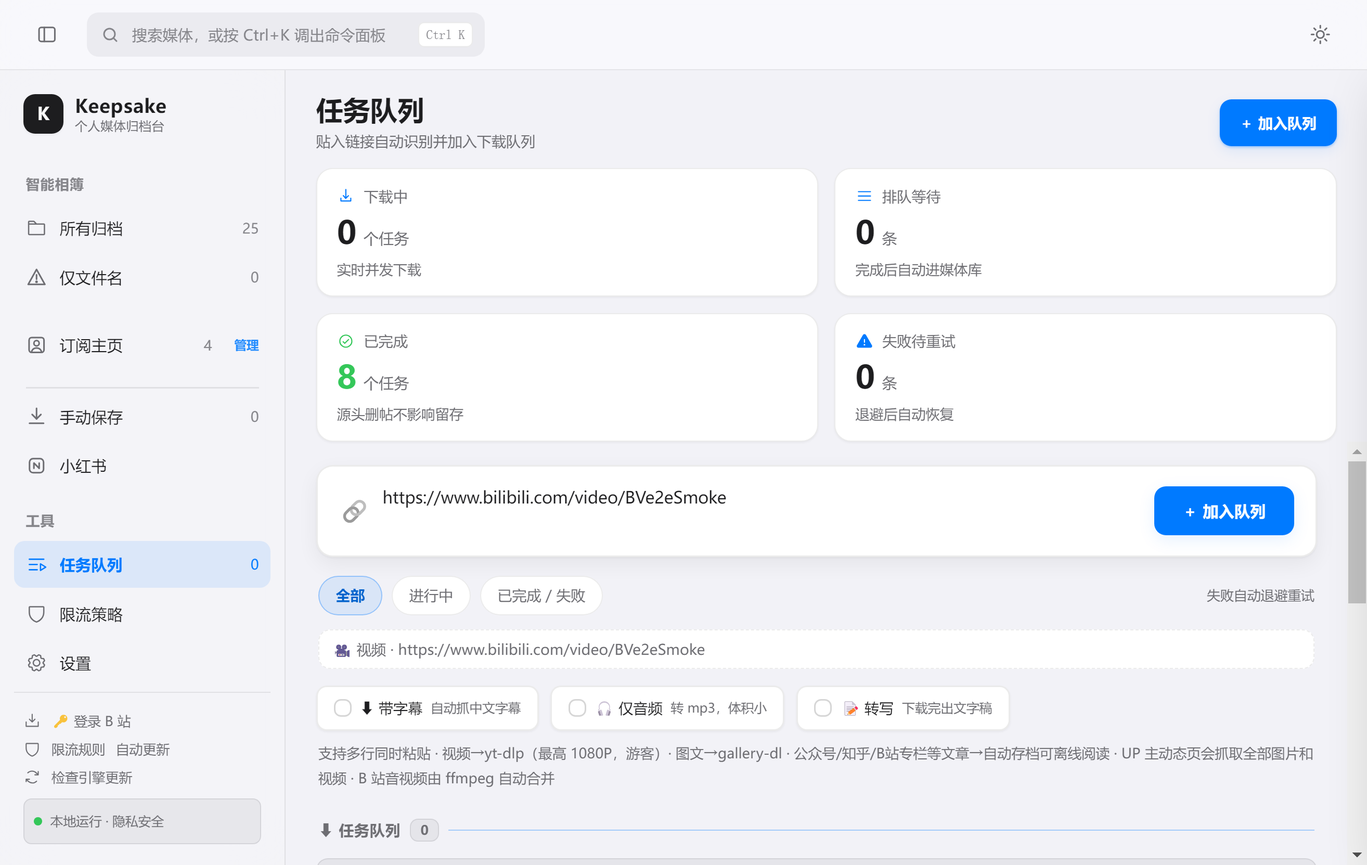
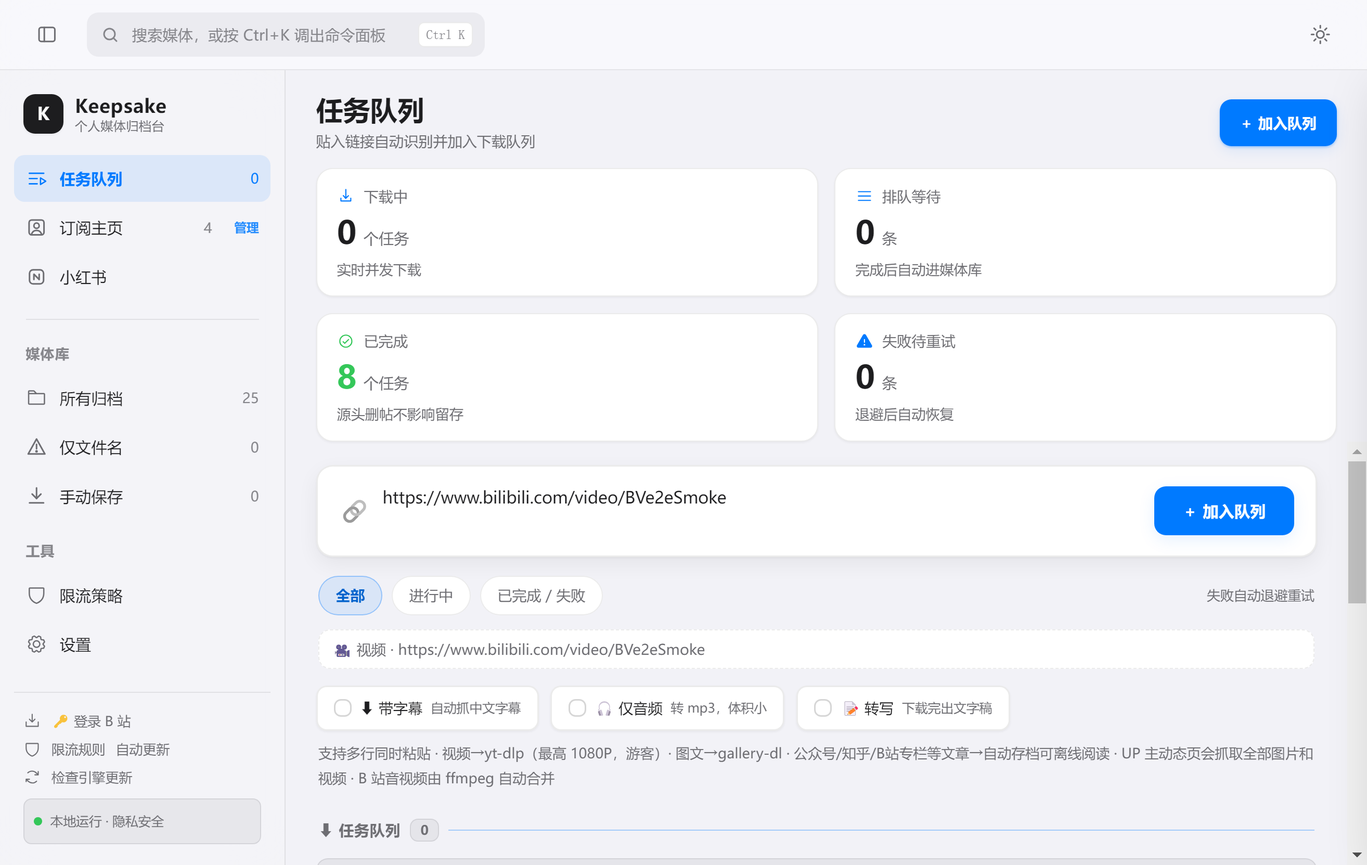
侧栏按原型重排：任务队列→订阅主页→小红书→媒体库→工具；订阅主页自带粘贴订阅框
- 侧栏顺序（2026-11-23 拍板原型）：任务队列(1)→订阅主页(2)→小红书(3)→分隔线+媒体库组(所有归档/仅文件名/手动保存)→工具组(限流策略/设置)；组标签「智能相簿」改名「媒体库」
- 订阅主页视图顶部新增粘贴订阅框（subUrlBox）：回车/按钮提交走完整 addSub 链路（subsAdd 预检/登录态提醒/首轮检查/回溯询问），不用绕订阅管理页；空态/无匹配态同样带框
- paste-box 支持单行 input 样式；verify_fused 62/62（新增排序断言+粘贴框链路 2 项），真机 11/11

diff --git a/评审材料/proto-sidebar-order.html b/评审材料/proto-sidebar-order.html
@@ -1,0 +1,240 @@
+<!DOCTYPE html>
+<html lang="zh-CN">
+<head>
+<meta charset="UTF-8">
+<meta name="viewport" content="width=device-width, initial-scale=1.0">
+<title>Keepsake 侧栏排序原型 · 任务队列优先</title>
+<style>
+  :root {
+    --acc: #3b82f6; --accbg: rgba(59,130,246,.12);
+    --bg: #f4f5f7; --panel: #ffffff; --panel2: #f0f1f4;
+    --txt: #1a1d23; --txt2: #5b6472; --txt3: #9aa3b0;
+    --line: #e5e8ee; --red: #ef4444;
+    --r-md: 12px; --shadow-sm: 0 1px 2px rgba(0,0,0,.05), 0 2px 8px rgba(0,0,0,.04);
+    --ease-out: cubic-bezier(.22,1,.36,1);
+  }
+  .dark {
+    --acc: #60a5fa; --accbg: rgba(96,165,250,.14);
+    --bg: #14161a; --panel: #1d2026; --panel2: #262a32;
+    --txt: #e8eaf0; --txt2: #a3abba; --txt3: #6b7382;
+    --line: #2c313a; --shadow-sm: 0 1px 2px rgba(0,0,0,.3), 0 2px 8px rgba(0,0,0,.2);
+  }
+  * { margin:0; padding:0; box-sizing:border-box; }
+  body { font-family:-apple-system,'Segoe UI','Microsoft YaHei',sans-serif; background:var(--bg); color:var(--txt); font-size:14px; height:100vh; overflow:hidden; transition:background .3s; }
+
+  /* ===== 工具栏 ===== */
+  .toolbar { height:56px; display:flex; align-items:center; gap:10px; padding:0 16px; background:var(--panel); border-bottom:1px solid var(--line); }
+  .search { flex:0 0 420px; display:flex; align-items:center; gap:8px; height:36px; padding:0 10px; border-radius:10px; background:var(--panel2); border:1px solid var(--line); color:var(--txt3); }
+  .search input { flex:1; border:0; background:none; outline:none; font-size:13px; color:var(--txt); }
+  .kbd { font-size:11px; padding:2px 7px; border-radius:6px; border:1px solid var(--line); background:var(--panel); color:var(--txt3); font-variant-numeric:tabular-nums; }
+  .tb-spacer { flex:1; }
+  .tb-btn { width:36px; height:36px; border-radius:10px; border:0; background:var(--panel2); color:var(--txt2); cursor:pointer; display:grid; place-items:center; font-size:16px; transition:transform .14s var(--ease-out), background .18s; }
+  .tb-btn:hover { background:var(--line); } .tb-btn:active { transform:scale(.94); }
+
+  /* ===== 布局 ===== */
+  .workspace { display:flex; height:calc(100vh - 56px); }
+  .sidebar { width:232px; flex:none; background:var(--panel); border-right:1px solid var(--line); padding:14px 12px 12px; display:flex; flex-direction:column; overflow-y:auto; }
+  .main { flex:1; min-width:0; padding:26px 30px; overflow-y:auto; }
+  .logo { display:flex; align-items:center; gap:10px; padding:2px 10px 16px; }
+  .gem { width:34px; height:34px; border-radius:10px; background:var(--acc); color:#fff; display:grid; place-items:center; font-weight:800; font-size:17px; }
+  .logo-name { font-weight:750; font-size:15px; letter-spacing:-.01em; }
+  .logo-sub { font-size:10.5px; color:var(--txt3); }
+
+  /* ===== 侧栏导航（★ 本次原型核心：排序） ===== */
+  .nav-grp { font-size:11.5px; font-weight:600; letter-spacing:.05em; color:var(--txt3); padding:16px 10px 7px; }
+  .nav { display:flex; align-items:center; gap:10px; height:38px; padding:0 10px; border-radius:10px; cursor:pointer; color:var(--txt2); user-select:none; font-size:13.5px; transition:background .16s, color .16s, transform .12s var(--ease-out); }
+  .nav:hover { background:var(--panel2); color:var(--txt); }
+  .nav:active { transform:scale(.985); }
+  .nav.on { background:var(--accbg); color:var(--acc); font-weight:600; }
+  .nav svg { width:17px; height:17px; flex:none; }
+  .nav .cnt { margin-left:auto; font-size:10.5px; font-weight:650; color:var(--txt3); background:var(--panel2); border-radius:8px; padding:1px 7px; font-variant-numeric:tabular-nums; }
+  .nav.on .cnt { background:rgba(59,130,246,.18); color:var(--acc); }
+  .nav .cnt.hot { background:var(--red); color:#fff; }
+  .nav.action svg { color:var(--acc); }
+  .side-sep { height:1px; background:var(--line); margin:14px 10px 0; }
+  .side-foot { margin-top:auto; padding-top:14px; font-size:11.5px; color:var(--txt3); }
+  .frow { display:flex; align-items:center; gap:7px; padding:5px 10px; }
+  .frow .act { color:var(--acc); cursor:pointer; }
+
+  /* ===== 主内容 mock ===== */
+  .page { display:none; }
+  .page.on { display:block; animation:fadeUp .34s var(--ease-out) both; }
+  @keyframes fadeUp { from { opacity:0; transform:translateY(8px); } to { opacity:1; transform:none; } }
+  .page-title { font-size:24px; font-weight:750; letter-spacing:-.02em; }
+  .page-sub { font-size:12.5px; color:var(--txt2); margin:5px 0 22px; }
+  .stats { display:grid; grid-template-columns:repeat(3, 200px); gap:14px; margin-bottom:22px; }
+  .stat { background:var(--panel); border:1px solid var(--line); border-radius:var(--r-md); padding:14px 18px; box-shadow:var(--shadow-sm); }
+  .stat b { font-size:22px; font-variant-numeric:tabular-nums; }
+  .stat span { display:block; font-size:11.5px; color:var(--txt3); margin-top:2px; }
+  .paste { background:var(--panel); border:1px solid var(--line); border-radius:var(--r-md); padding:14px; display:flex; gap:10px; box-shadow:var(--shadow-sm); margin-bottom:22px; }
+  .paste textarea { flex:1; height:56px; border:1px solid var(--line); border-radius:10px; background:var(--panel2); resize:none; padding:10px 12px; font-size:13px; color:var(--txt); font-family:inherit; outline:none; }
+  .paste textarea:focus { border-color:var(--acc); box-shadow:0 0 0 3px var(--accbg); }
+  .btn-acc { align-self:flex-end; height:36px; padding:0 16px; border-radius:9px; border:0; background:var(--acc); color:#fff; font-size:13px; font-weight:600; cursor:pointer; }
+  .grid { display:grid; grid-template-columns:repeat(auto-fill, minmax(220px,1fr)); gap:14px; }
+  .card { background:var(--panel); border:1px solid var(--line); border-radius:14px; overflow:hidden; box-shadow:var(--shadow-sm); cursor:pointer; transition:transform .14s var(--ease-out), border-color .18s; }
+  .card:hover { transform:translateY(-2px); border-color:var(--acc); }
+  .thumb { height:110px; display:grid; place-items:center; font-size:30px; color:#fff; }
+  .cbody { padding:11px 13px; }
+  .cname { font-size:13.5px; font-weight:650; }
+  .cmeta { font-size:11.5px; color:var(--txt3); margin-top:3px; }
+  .badge { display:inline-block; font-size:10px; font-weight:650; padding:2px 7px; border-radius:6px; background:var(--accbg); color:var(--acc); margin-top:7px; }
+  .rows { display:flex; flex-direction:column; gap:10px; }
+  .rowcard { display:flex; align-items:center; gap:12px; background:var(--panel); border:1px solid var(--line); border-radius:12px; padding:13px 16px; box-shadow:var(--shadow-sm); }
+  .avatar { width:38px; height:38px; border-radius:50%; display:grid; place-items:center; color:#fff; font-weight:700; font-size:15px; flex:none; }
+  .go { margin-left:auto; color:var(--txt3); font-size:18px; }
+  .note { margin-top:26px; font-size:12px; color:var(--txt3); background:var(--panel); border:1px dashed var(--line); border-radius:10px; padding:12px 16px; line-height:1.8; }
+</style>
+</head>
+<body>
+
+<header class="toolbar">
+  <div class="search">🔍<input placeholder="搜索媒体，或按 Ctrl K 调出命令面板"><span class="kbd">Ctrl K</span></div>
+  <div class="tb-spacer"></div>
+  <button class="tb-btn" id="themeBtn" title="切换主题">🌙</button>
+</header>
+
+<div class="workspace">
+  <!-- ★ 侧栏新排序：任务队列 → 订阅主页 → 小红书 → 媒体库 → 工具 -->
+  <aside class="sidebar">
+    <div class="logo"><span class="gem">K</span><span><div class="logo-name">Keepsake</div><div class="logo-sub">个人媒体归档台</div></span></div>
+
+    <div class="nav on" data-page="tasks">
+      <svg viewBox="0 0 256 256" fill="currentColor"><path d="M32,64a8,8,0,0,1,8-8H216a8,8,0,0,1,0,16H40A8,8,0,0,1,32,64Zm104,56H40a8,8,0,0,0,0,16h96a8,8,0,0,0,0-16Zm0,64H40a8,8,0,0,0,0,16h96a8,8,0,0,0,0-16Zm112-24a8,8,0,0,1-3.76,6.78l-64,40A8,8,0,0,1,168,200V120a8,8,0,0,1,12.24-6.78l64,40A8,8,0,0,1,248,160Z"/></svg>
+      任务队列 <span class="cnt hot" id="c-tasks">2</span>
+    </div>
+    <div class="nav" data-page="subs">
+      <svg viewBox="0 0 24 24" fill="none" stroke="currentColor" stroke-width="1.8" stroke-linecap="round" stroke-linejoin="round" style="fill:none"><rect x="3.5" y="3.5" width="17" height="17" rx="3"/><circle cx="12" cy="10" r="3"/><path d="M6.5 19a6 6 0 0 1 11 0"/></svg>
+      订阅主页 <span class="cnt">5</span>
+    </div>
+    <div class="nav action" data-page="xhs">
+      <svg viewBox="0 0 24 24" fill="none" stroke="currentColor" stroke-width="1.8" stroke-linecap="round" stroke-linejoin="round" style="fill:none"><rect x="4" y="4" width="16" height="16" rx="4"/><path d="M9 15V9l6 6V9"/></svg>
+      小红书
+    </div>
+
+    <div class="side-sep"></div>
+    <div class="nav-grp">媒体库</div>
+    <div class="nav" data-page="lib">
+      <svg viewBox="0 0 256 256" fill="currentColor"><path d="M216,72H131.31L104,44.69A15.86,15.86,0,0,0,92.69,40H40A16,16,0,0,0,24,56V200.62A15.4,15.4,0,0,0,39.38,216H216.89A15.13,15.13,0,0,0,232,200.89V88A16,16,0,0,0,216,72ZM40,56H92.69l16,16H40ZM216,200H40V88H216Z"/></svg>
+      所有归档 <span class="cnt">4</span>
+    </div>
+    <div class="nav" data-page="lib">
+      <svg viewBox="0 0 24 24" fill="none" stroke="currentColor" stroke-width="1.8" stroke-linecap="round" stroke-linejoin="round" style="fill:none"><path d="M12 3 2.5 20h19L12 3Z"/><line x1="12" y1="9" x2="12" y2="14"/><circle cx="12" cy="17" r=".6" fill="currentColor"/></svg>
+      仅文件名 <span class="cnt">1</span>
+    </div>
+    <div class="nav" data-page="lib">
+      <svg viewBox="0 0 24 24" fill="none" stroke="currentColor" stroke-width="1.8" stroke-linecap="round" stroke-linejoin="round" style="fill:none"><path d="M12 3v12"/><path d="m7 10 5 5 5-5"/><path d="M4 20h16"/></svg>
+      手动保存 <span class="cnt">1</span>
+    </div>
+
+    <div class="nav-grp">工具</div>
+    <div class="nav" data-page="strategy">
+      <svg viewBox="0 0 256 256" fill="currentColor"><path d="M208,40H48A16,16,0,0,0,32,56v56c0,52.72,25.52,84.67,46.93,102.19,23.06,18.86,46,25.27,47,25.53a8,8,0,0,0,4.2,0c1-.26,23.91-6.67,47-25.53C198.48,196.67,224,164.72,224,112V56A16,16,0,0,0,208,40Zm0,72c0,37.07-13.66,67.16-40.6,89.42A129.3,129.3,0,0,1,128,223.62a128.25,128.25,0,0,1-38.92-21.81C61.82,179.51,48,149.3,48,112l0-56,160,0Z"/></svg>
+      限流策略
+    </div>
+    <div class="nav" data-page="settings">
+      <svg viewBox="0 0 256 256" fill="currentColor"><path d="M128,80a48,48,0,1,0,48,48A48.05,48.05,0,0,0,128,80Zm0,80a32,32,0,1,1,32-32A32,32,0,0,1,128,160Z"/></svg>
+      设置
+    </div>
+
+    <div class="side-foot">
+      <div class="frow">🔑 <span class="act">登录 B 站</span></div>
+      <div class="frow">🛡 限流规则 <span class="act">自动更新</span></div>
+      <div class="frow">⟳ <span class="act">检查引擎更新</span></div>
+    </div>
+  </aside>
+
+  <!-- 主内容（mock） -->
+  <main class="main">
+    <section class="page on" id="pg-tasks">
+      <div class="page-title">任务队列</div>
+      <div class="page-sub">粘贴链接下载 — 首页即达，下载中 2 条</div>
+      <div class="stats">
+        <div class="stat"><b>2</b><span>下载中</span></div>
+        <div class="stat"><b>1</b><span>已完成</span></div>
+        <div class="stat"><b>0</b><span>失败</span></div>
+      </div>
+      <div class="paste">
+        <textarea placeholder="粘贴视频 / 图片 / 文章链接（B站、YouTube、小红书…每行一个），自动识别并加入下载队列"></textarea>
+        <button class="btn-acc">＋ 加入队列</button>
+      </div>
+      <div class="rows">
+        <div class="rowcard"><div class="avatar" style="background:#fb7299">B</div><div><div class="cname">【4K】城市夜景延时摄影.mp4</div><div class="cmeta">bilibili · 2160P · 已下载 62%</div></div><span class="go">›</span></div>
+        <div class="rowcard"><div class="avatar" style="background:#ff2442">红</div><div><div class="cname">秋日穿搭合集（图文）</div><div class="cmeta">小红书 · 9 图 · 排队中</div></div><span class="go">›</span></div>
+      </div>
+    </section>
+
+    <section class="page" id="pg-subs">
+      <div class="page-title">订阅主页</div>
+      <div class="page-sub">5 个订阅主页 · 点击卡片查看 TA 的归档</div>
+      <div class="rows">
+        <div class="rowcard"><div class="avatar" style="background:#6c5ce7">影</div><div><div class="cname">影视飓风</div><div class="cmeta">B站 · 已跟踪 128 条</div></div><span class="go">›</span></div>
+        <div class="rowcard"><div class="avatar" style="background:#00b894">何</div><div><div class="cname">何同学</div><div class="cmeta">B站 · 已跟踪 42 条</div></div><span class="go">›</span></div>
+        <div class="rowcard"><div class="avatar" style="background:#e17055">设</div><div><div class="cname">设计师日常</div><div class="cmeta">小红书 · 已跟踪 96 条</div></div><span class="go">›</span></div>
+        <div class="rowcard"><div class="avatar" style="background:#0984e3">少</div><div><div class="cname">少数派</div><div class="cmeta">公众号 · 已跟踪 210 条</div></div><span class="go">›</span></div>
+        <div class="rowcard" style="opacity:.6"><div class="avatar" style="background:#636e72">一</div><div><div class="cname">一人公司 <span class="badge">⏸ 已暂停</span></div><div class="cmeta">RSS · 已跟踪 15 条</div></div><span class="go">›</span></div>
+      </div>
+    </section>
+
+    <section class="page" id="pg-xhs">
+      <div class="page-title">小红书</div>
+      <div class="page-sub">打开受控浏览器 — 浏览笔记页后点窗口内【📥 归档】一键保存图文/视频</div>
+      <div class="note">点击侧栏「小红书」会拉起独立受控窗口。此处示意入口位置（第三位）：紧跟订阅主页之后、媒体库之前，收集动作聚在一起。</div>
+    </section>
+
+    <section class="page" id="pg-lib">
+      <div class="page-title">所有归档</div>
+      <div class="page-sub">订阅追更与手动添加，收在一处</div>
+      <div class="grid">
+        <div class="card"><div class="thumb" style="background:linear-gradient(135deg,#1a1a2e,#16213e)">▶</div><div class="cbody"><div class="cname">a</div><div class="cmeta">何同学 · 2026-11-22</div><span class="badge">▶ 视频 · B站</span></div></div>
+        <div class="card"><div class="thumb" style="background:linear-gradient(135deg,#a29bfe,#6c5ce7)">🖼</div><div class="cbody"><div class="cname">c</div><div class="cmeta">何同学 · 2026-11-22</div><span class="badge">📄 文件名 · B站</span></div></div>
+        <div class="card"><div class="thumb" style="background:linear-gradient(135deg,#fd79a8,#e84393)">📝</div><div class="cbody"><div class="cname">b</div><div class="cmeta">何同学 · 2026-11-22</div><span class="badge">＋ 手动添加 · B站</span></div></div>
+        <div class="card"><div class="thumb" style="background:linear-gradient(135deg,#2d3436,#636e72)">▶</div><div class="cbody"><div class="cname">d</div><div class="cmeta">影视飓风 · 2026-11-22</div><span class="badge">▶ 视频 · YouTube</span></div></div>
+      </div>
+    </section>
+
+    <section class="page" id="pg-strategy">
+      <div class="page-title">限流策略</div>
+      <div class="page-sub">各站点请求间隔与并发上限（mock）</div>
+      <div class="rows">
+        <div class="rowcard"><div class="avatar" style="background:#fb7299">B</div><div><div class="cname">bilibili</div><div class="cmeta">间隔 3.0s · 并发 2</div></div><span class="go">›</span></div>
+        <div class="rowcard"><div class="avatar" style="background:#ff2442">红</div><div><div class="cname">小红书</div><div class="cmeta">间隔 5.0s · 并发 1</div></div><span class="go">›</span></div>
+      </div>
+    </section>
+
+    <section class="page" id="pg-settings">
+      <div class="page-title">设置</div>
+      <div class="page-sub">主题 / 强调色 / 外观（mock）</div>
+      <div class="note">深浅主题已在本原型内联动：右上角 🌙 可切换，侧栏与内容区同步变色。</div>
+    </section>
+
+    <div class="note" style="margin-top:8px">
+      <b>★ 原型要点</b>：侧栏排序改为「任务队列 → 订阅主页 → 小红书 →（分隔线）媒体库组：所有归档/仅文件名/手动保存 →（组标签）工具：限流策略/设置」。三个高频收集入口置顶，媒体库后退为第二簇，纯工具类垫底。此文件为纯静态 mock，未动 Keepsake 源码；拍板后再移植。
+    </div>
+  </main>
+</div>
+
+<script>
+  // 侧栏切换：点击高亮 + 页面切换
+  document.querySelectorAll('.nav[data-page]').forEach(n => {
+    n.addEventListener('click', () => {
+      document.querySelectorAll('.sidebar .nav').forEach(x => x.classList.remove('on'));
+      n.classList.add('on');
+      document.querySelectorAll('.page').forEach(p => p.classList.remove('on'));
+      const pg = document.getElementById('pg-' + n.dataset.page);
+      if (pg) pg.classList.add('on');
+    });
+  });
+  // 主题切换
+  let dark = false;
+  document.getElementById('themeBtn').addEventListener('click', function () {
+    dark = !dark;
+    document.body.classList.toggle('dark', dark);
+    this.textContent = dark ? '☀' : '🌙';
+  });
+  // Ctrl+K 聚焦搜索
+  document.addEventListener('keydown', e => {
+    if ((e.ctrlKey || e.metaKey) && e.key.toLowerCase() === 'k') { e.preventDefault(); document.querySelector('.search input').focus(); }
+  });
+</script>
+</body>
+</html>

diff --git a/app/index.html b/app/index.html
@@ -196,6 +196,7 @@
   .paste-box span { font-size:20px; }
   textarea { border:none; outline:none; resize:none; font:inherit; color:var(--txt); background:transparent; }
   .paste-box textarea { flex:1; font-size:14px; min-height:44px; }
+  .paste-box input[type="text"] { flex:1; min-width:0; border:none; outline:none; font:inherit; font-size:14px; color:var(--txt); background:transparent; }
   .btn-dl { background:var(--acc); border:none; color:#fff; font-weight:700; font-size:13.5px; padding:12px 24px; border-radius:10px; cursor:pointer; white-space:nowrap; box-shadow:0 4px 14px var(--accbg); }
   .btn-dl:hover { filter:brightness(1.06); }
   .btn-dl:disabled { opacity:.55; cursor:not-allowed; filter:none; }
@@ -605,15 +606,16 @@
   <div class="workspace">
 <aside class="sidebar">
   <div class="logo"><span class="gem">K</span><span class="logo-txt"><span class="logo-name">Keepsake</span><span class="logo-sub">个人媒体归档台</span></span></div>
-  <div class="nav-grp">智能相簿</div>
+  <!-- ★ 侧栏排序（2026-11-23 拍板）：任务队列 → 订阅主页 → 小红书 →（分隔线）媒体库 →（组标签）工具 -->
+  <div class="nav" data-page="tasks" onclick="switchPage('tasks')"><svg viewBox="0 0 256 256" fill="currentColor"><path d="M32,64a8,8,0,0,1,8-8H216a8,8,0,0,1,0,16H40A8,8,0,0,1,32,64Zm104,56H40a8,8,0,0,0,0,16h96a8,8,0,0,0,0-16Zm0,64H40a8,8,0,0,0,0,16h96a8,8,0,0,0,0-16Zm112-24a8,8,0,0,1-3.76,6.78l-64,40A8,8,0,0,1,168,200V120a8,8,0,0,1,12.24-6.78l64,40A8,8,0,0,1,248,160Zm-23.09,0L184,134.43v51.14Z"/></svg>任务队列 <span class="cnt" id="q-cnt">0</span></div>
+  <div class="nav" data-nav="subs" onclick="libViewGo('subs')" title="所有订阅主页收在这里，点击在右侧查看详细名称并可直接粘贴添加"><svg viewBox="0 0 24 24" fill="none" stroke="currentColor" stroke-width="1.8" stroke-linecap="round" stroke-linejoin="round" style="fill:none"><rect x="3.5" y="3.5" width="17" height="17" rx="3"/><circle cx="12" cy="10" r="3"/><path d="M6.5 19a6 6 0 0 1 11 0"/></svg>订阅主页 <span class="cnt" id="sideSubCnt">0</span><span class="side-manage" style="margin-left:8px" onclick="event.stopPropagation();switchPage('rss')" title="订阅管理：检查频率/回溯/分组/批量操作">管理</span></div>
+  <div class="nav" id="xhsWinBtn" onclick="openXhsWin()" title="打开小红书受控浏览器：浏览笔记页后点窗口内【📥 归档】一键保存图文/视频"><svg viewBox="0 0 24 24" fill="none" stroke="currentColor" stroke-width="1.8" stroke-linecap="round" stroke-linejoin="round" style="fill:none"><rect x="4" y="4" width="16" height="16" rx="4"/><path d="M9 15V9l6 6V9"/></svg>小红书</div>
+  <div class="side-sep"></div>
+  <div class="nav-grp">媒体库</div>
   <div class="nav on" data-page="lib" onclick="libViewGo('all')"><svg viewBox="0 0 256 256" fill="currentColor"><path d="M216,72H131.31L104,44.69A15.86,15.86,0,0,0,92.69,40H40A16,16,0,0,0,24,56V200.62A15.4,15.4,0,0,0,39.38,216H216.89A15.13,15.13,0,0,0,232,200.89V88A16,16,0,0,0,216,72ZM40,56H92.69l16,16H40ZM216,200H40V88H216Z"/></svg>所有归档 <span class="cnt" id="l-fileAll">0</span></div>
   <div class="nav" data-nav="only" onclick="libViewGo('only')" title="没有可预览封面、只有文件名的内容"><svg viewBox="0 0 24 24" fill="none" stroke="currentColor" stroke-width="1.8" stroke-linecap="round" stroke-linejoin="round" style="fill:none"><path d="M12 3 2.5 20h19L12 3Z"/><line x1="12" y1="9" x2="12" y2="14"/><circle cx="12" cy="17" r=".6" fill="currentColor"/></svg>仅文件名 <span class="cnt" id="l-fileOnly">0</span></div>
-  <div class="nav" data-nav="subs" onclick="libViewGo('subs')" style="margin-top:16px" title="所有订阅主页收在这里，点击在右侧查看详细名称"><svg viewBox="0 0 24 24" fill="none" stroke="currentColor" stroke-width="1.8" stroke-linecap="round" stroke-linejoin="round" style="fill:none"><rect x="3.5" y="3.5" width="17" height="17" rx="3"/><circle cx="12" cy="10" r="3"/><path d="M6.5 19a6 6 0 0 1 11 0"/></svg>订阅主页 <span class="cnt" id="sideSubCnt">0</span><span class="side-manage" style="margin-left:8px" onclick="event.stopPropagation();switchPage('rss')" title="订阅管理：检查频率/回溯/分组/批量操作">管理</span></div>
-  <div class="side-sep"></div>
   <div class="nav" data-nav="manual" onclick="libViewGo('manual')" title="单独下载的内容都收在这里，没有订阅归属"><svg viewBox="0 0 24 24" fill="none" stroke="currentColor" stroke-width="1.8" stroke-linecap="round" stroke-linejoin="round" style="fill:none"><path d="M12 3v12"/><path d="m7 10 5 5 5-5"/><path d="M4 20h16"/></svg>手动保存 <span class="cnt" id="l-fileManual">0</span></div>
-  <div class="nav" id="xhsWinBtn" onclick="openXhsWin()" title="打开小红书受控浏览器：浏览笔记页后点窗口内【📥 归档】一键保存图文/视频"><svg viewBox="0 0 24 24" fill="none" stroke="currentColor" stroke-width="1.8" stroke-linecap="round" stroke-linejoin="round" style="fill:none"><rect x="4" y="4" width="16" height="16" rx="4"/><path d="M9 15V9l6 6V9"/></svg>小红书</div>
   <div class="nav-grp">工具</div>
-  <div class="nav" data-page="tasks" onclick="switchPage('tasks')"><svg viewBox="0 0 256 256" fill="currentColor"><path d="M32,64a8,8,0,0,1,8-8H216a8,8,0,0,1,0,16H40A8,8,0,0,1,32,64Zm104,56H40a8,8,0,0,0,0,16h96a8,8,0,0,0,0-16Zm0,64H40a8,8,0,0,0,0,16h96a8,8,0,0,0,0-16Zm112-24a8,8,0,0,1-3.76,6.78l-64,40A8,8,0,0,1,168,200V120a8,8,0,0,1,12.24-6.78l64,40A8,8,0,0,1,248,160Zm-23.09,0L184,134.43v51.14Z"/></svg>任务队列 <span class="cnt" id="q-cnt">0</span></div>
   <div class="nav" data-page="strategy" onclick="switchPage('strategy')"><svg viewBox="0 0 256 256" fill="currentColor"><path d="M208,40H48A16,16,0,0,0,32,56v56c0,52.72,25.52,84.67,46.93,102.19,23.06,18.86,46,25.27,47,25.53a8,8,0,0,0,4.2,0c1-.26,23.91-6.67,47-25.53C198.48,196.67,224,164.72,224,112V56A16,16,0,0,0,208,40Zm0,72c0,37.07-13.66,67.16-40.6,89.42A129.3,129.3,0,0,1,128,223.62a128.25,128.25,0,0,1-38.92-21.81C61.82,179.51,48,149.3,48,112l0-56,160,0Z"/></svg>限流策略</div>
   <!-- 视频号入口暂时下架（2026-11-19 拍板）：受控窗/IPC 保留，恢复时解开本行（小红书在上方收集簇中）
   <div class="nav" onclick="openChannelsWin()" title="打开微信视频号受控浏览器：官方页面正常登录浏览，播放后点窗口内【📥 归档】一键保存">📹 视频号</div> -->
@@ -2834,13 +2836,24 @@ const siteLabel = s2 => SITE_LABEL[String(s2).toLowerCase()] || s2;
 const SUB_KIND_LABEL = { bilibili: 'B站', 'bili-collection': '合集', x: 'X', youtube: 'YouTube', rss: 'RSS', weread: '公众号', 'xhs-user': '小红书', gdl: '图站' };
 const subKindLabel = k => SUB_KIND_LABEL[String(k).toLowerCase()] || '订阅';
 const subKindPlat = k => ({ 'xhs-user': 'xiaohongshu', 'bili-collection': 'bilibili', weread: 'weread' })[k] || k;
+const SUB_SUBBOX = '<div class="paste-box" style="margin:0 0 18px"><span>🔗</span><input id="subUrlBox" type="text" placeholder="粘贴创作者主页地址（B站UP主 / YouTube频道 / 小红书 / RSS…），回车或点按钮订阅" autocomplete="off"><button class="btn-dl" onclick="addSubFromBox()">＋ 添加订阅</button></div>';
+async function addSubFromBox() {
+  const box = $('subUrlBox'); if (!box) return;
+  const v = box.value.trim();
+  if (!v) return toast('先粘贴 UP 主页、频道或 RSS feed 链接');
+  $('subUrl').value = v;   // 复用订阅页完整链路（subsAdd 预检/登录态提醒/首轮检查/回溯询问），回溯条数沿用订阅页下拉默认
+  await addSub();
+  box.value = '';
+  renderSideSubs();
+  try { renderLibrary(); } catch (e) {}
+}
 function renderSubsGallery() {
   const el = $('libList'); if (!el) return;
   const subs = (subsItems || []).slice().sort((a, b) => (b.lastCheck || 0) - (a.lastCheck || 0));
-  if (!subs.length) { el.innerHTML = '<div class="empty">还没有订阅主页——点上方「管理」到订阅页粘贴主页地址添加</div>'; return; }
+  if (!subs.length) { el.innerHTML = SUB_SUBBOX + '<div class="empty">还没有订阅主页——粘贴主页地址，追更一位创作者试试</div>'; return; }
   const kw = libKw.toLowerCase();
   const list = kw ? subs.filter(s => String(s.name).toLowerCase().includes(kw)) : subs;
-  if (!list.length) { el.innerHTML = '<div class="empty">没有匹配「' + esc(libKw) + '」的订阅主页</div>'; return; }
+  if (!list.length) { el.innerHTML = SUB_SUBBOX + '<div class="empty">没有匹配「' + esc(libKw) + '」的订阅主页</div>'; return; }
   const cards = list.map((s, i) => {
     const bad = s.lastError && (!s.lastCheck || (s.lastFailAt || 0) > (s.lastCheck || 0)) && !(s.userPaused || s.paused);
     const paused = !!(s.userPaused || s.paused);
@@ -2853,7 +2866,7 @@ function renderSubsGallery() {
       '<span class="sg-go">›</span>' +
     '</article>';
   }).join('');
-  el.innerHTML = '<div class="subsgrid">' + cards + '</div>';
+  el.innerHTML = SUB_SUBBOX + '<div class="subsgrid">' + cards + '</div>';
 }
 function renderLibrary() {
   const el = $('libList');

diff --git a/_tools/verify_fused.js b/_tools/verify_fused.js
@@ -39,6 +39,7 @@ const obj = () => Promise.resolve({});
 window.keepsake = {
   snapshot: () => Promise.resolve(window.__snap), tasks: arr, queue: arr, done: arr,
   subsList: () => Promise.resolve(window.__subs), subs: arr,
+  subsAdd: u => { const s = { id: 's-' + Date.now(), kind: 'rss', name: '新订阅', knownCount: 0 }; window.__subs = [...window.__subs, s]; return Promise.resolve({ ok: true, sub: s }); },
   libraryScan: () => Promise.resolve(window.__lib), libraryList: arr,
   wereadState: obj, cookieInfo: () => Promise.resolve({}), pixivState: obj, asr: obj, engines: arr,
   strategySnapshot: () => Promise.resolve({ defaults: [], learned: {} }), strategyVersion: () => Promise.resolve('test'),
@@ -81,7 +82,7 @@ document.addEventListener('DOMContentLoaded', () => {
     brand: !!document.querySelector('.sidebar .logo .logo-name') && !document.querySelector('.tb-brand'),
     xhsSide: !!document.querySelector('.sidebar .nav#xhsWinBtn'),
     xhsToolbar: !!document.querySelector('.toolbar #xhsWinBtn'),
-    xhsOrder: (() => { const ids = [...document.querySelectorAll('.sidebar > *')].map(n => n.id || n.dataset.nav || n.dataset.page || n.className.split(' ')[0]); const iSub = ids.indexOf('subs'), iMan = ids.indexOf('manual'), iXhs = ids.indexOf('xhsWinBtn'); return iXhs > iMan && iMan > iSub; })(),
+    sideOrder: (() => { const ids = [...document.querySelectorAll('.sidebar .nav')].map(n => n.id || n.dataset.nav || n.dataset.page); return ids.join(','); })(),
     search: !!document.querySelector('.toolbar .search input#libKw'),
     themeBtn: !!document.getElementById('themeToggleBtn'),
     sideToggle: !!document.getElementById('sidebarToggle'),
@@ -95,8 +96,8 @@ document.addEventListener('DOMContentLoaded', () => {
     app: !!document.getElementById('app')
   }));
   ok('工具栏（真搜索框+主题按钮+侧栏开关；品牌标识只在侧栏，全局仅一个 Keepsake；无小红书按钮）', () => assert(base.toolbar && base.brand && base.search && base.themeBtn && base.sideToggle && !base.xhsToolbar, JSON.stringify(base)));
-  ok('侧栏排序：小红书在「订阅主页→手动保存」收集簇下方、工具组上方', () => assert(base.xhsSide && base.xhsOrder, JSON.stringify({ xhsSide: base.xhsSide, xhsOrder: base.xhsOrder })));
-  ok('毛玻璃侧栏在 workspace 内，四页导航 + 两组标签（智能相簿/工具；订阅主页/手动保存为无标签单入口）', () => assert(base.sidebar && base.navs.length === 4 && base.grp === 2 && base.navs[0] === 'lib' && !base.navs.includes('rss'), JSON.stringify({ navs: base.navs, grp: base.grp })));
+  ok('侧栏排序（2026-11-23 拍板）：任务队列→订阅主页→小红书→媒体库(所有归档/仅文件名/手动保存)→工具', () => assert(base.xhsSide && base.sideOrder === 'tasks,subs,xhsWinBtn,lib,only,manual,strategy,settings', JSON.stringify(base.sideOrder)));
+  ok('毛玻璃侧栏在 workspace 内，四页导航 + 两组标签（媒体库/工具；前三项为无标签高频入口）', () => assert(base.sidebar && base.navs.length === 4 && base.grp === 2 && base.navs[0] === 'tasks' && !base.navs.includes('rss'), JSON.stringify({ navs: base.navs, grp: base.grp })));
   ok('侧栏底部状态区（登录/规则/引擎更新入口）', () => assert(base.foot, 'no side-foot'));
   ok('⌘K 面板容器在位', () => assert(base.cmdk, 'no cmdk'));
   ok('详情抽屉在位', () => assert(base.drawer, 'no drawer'));
@@ -105,7 +106,7 @@ document.addEventListener('DOMContentLoaded', () => {
   ok('第三阶段：默认页 = 媒体库（启动第一眼）', () => assert(onPageLib));
   const sideShell = await page.evaluate(() => !!document.querySelector('.sidebar .nav[data-nav="manual"]') && !!document.querySelector('.sidebar .nav[data-nav="subs"]') && !!document.getElementById('sideSubCnt') && !document.getElementById('sideSubList'));
   const smartGroup = await page.evaluate(() => [...document.querySelectorAll('.sidebar .nav')].some(n => n.textContent.includes('仅文件名')) && [...document.querySelectorAll('.sidebar .nav')].some(n => n.textContent.includes('手动保存')) && !!document.getElementById('l-fileAll') && !!document.getElementById('l-fileOnly') && !!document.getElementById('l-fileManual'));
-  ok('第五批：智能相簿组带「所有归档/仅文件名」，手动保存为无标签单入口', () => assert(smartGroup));
+  ok('第五批：「所有归档/仅文件名/手动保存」在媒体库组内', () => assert(smartGroup));
   const manageLink = await page.evaluate(() => !!document.querySelector('.side-manage') && ![...document.querySelectorAll('.sidebar .nav')].some(n => n.textContent.includes('订阅归档')));
   ok('第四批：订阅管理入口在订阅主页组标题，工具组不再重复订阅归档 nav', () => assert(manageLink));
 
@@ -172,6 +173,18 @@ document.addEventListener('DOMContentLoaded', () => {
   // 清掉订阅卡过滤带来的关键词，避免污染后续视图测试
   await page.evaluate(() => { document.getElementById('libKw').value = ''; setLibKw(''); });
   await page.waitForTimeout(220);
+  // 订阅主页视图自带粘贴订阅框（2026-11-23 拍板：加订阅不用绕订阅管理页）
+  await page.evaluate(() => libViewGo('subs'));
+  await page.waitForTimeout(260);
+  let boxSt = await page.evaluate(() => ({ input: !!document.getElementById('subUrlBox'), btn: !!document.querySelector('#libList .paste-box .btn-dl') }));
+  ok('订阅主页视图自带粘贴订阅框（输入框+添加订阅按钮在卡墙上方）', () => assert(boxSt.input && boxSt.btn, JSON.stringify(boxSt)));
+  await page.evaluate(() => { document.getElementById('subUrlBox').value = 'https://example.com/new-creator'; document.querySelector('#libList .paste-box .btn-dl').click(); });
+  await page.waitForTimeout(700);
+  boxSt = await page.evaluate(() => ({ cnt: document.getElementById('sideSubCnt').textContent, cards: document.querySelectorAll('#libList .subgcard').length, cleared: document.getElementById('subUrlBox').value === '' }));
+  ok('粘贴框提交：走完整 addSub 链路（新订阅卡入列 3 张 + 侧栏计数 3 + 输入框清空）', () => assert(boxSt.cnt === '3' && boxSt.cards === 3 && boxSt.cleared, JSON.stringify(boxSt)));
+  // 回退 mock 状态，避免污染后续订阅相关测试
+  await page.evaluate(() => { window.__subs = window.__subs.slice(0, 2); window.keepsake.subsList && loadSubs(); });
+  await page.waitForTimeout(300);
   // 手动添加联动（第五批口径）：点侧栏手动保存 → libView=manual + 页头标题切换
   await page.evaluate(() => document.querySelector('.sidebar .nav[data-nav="manual"]').click());
   await page.waitForTimeout(260);
